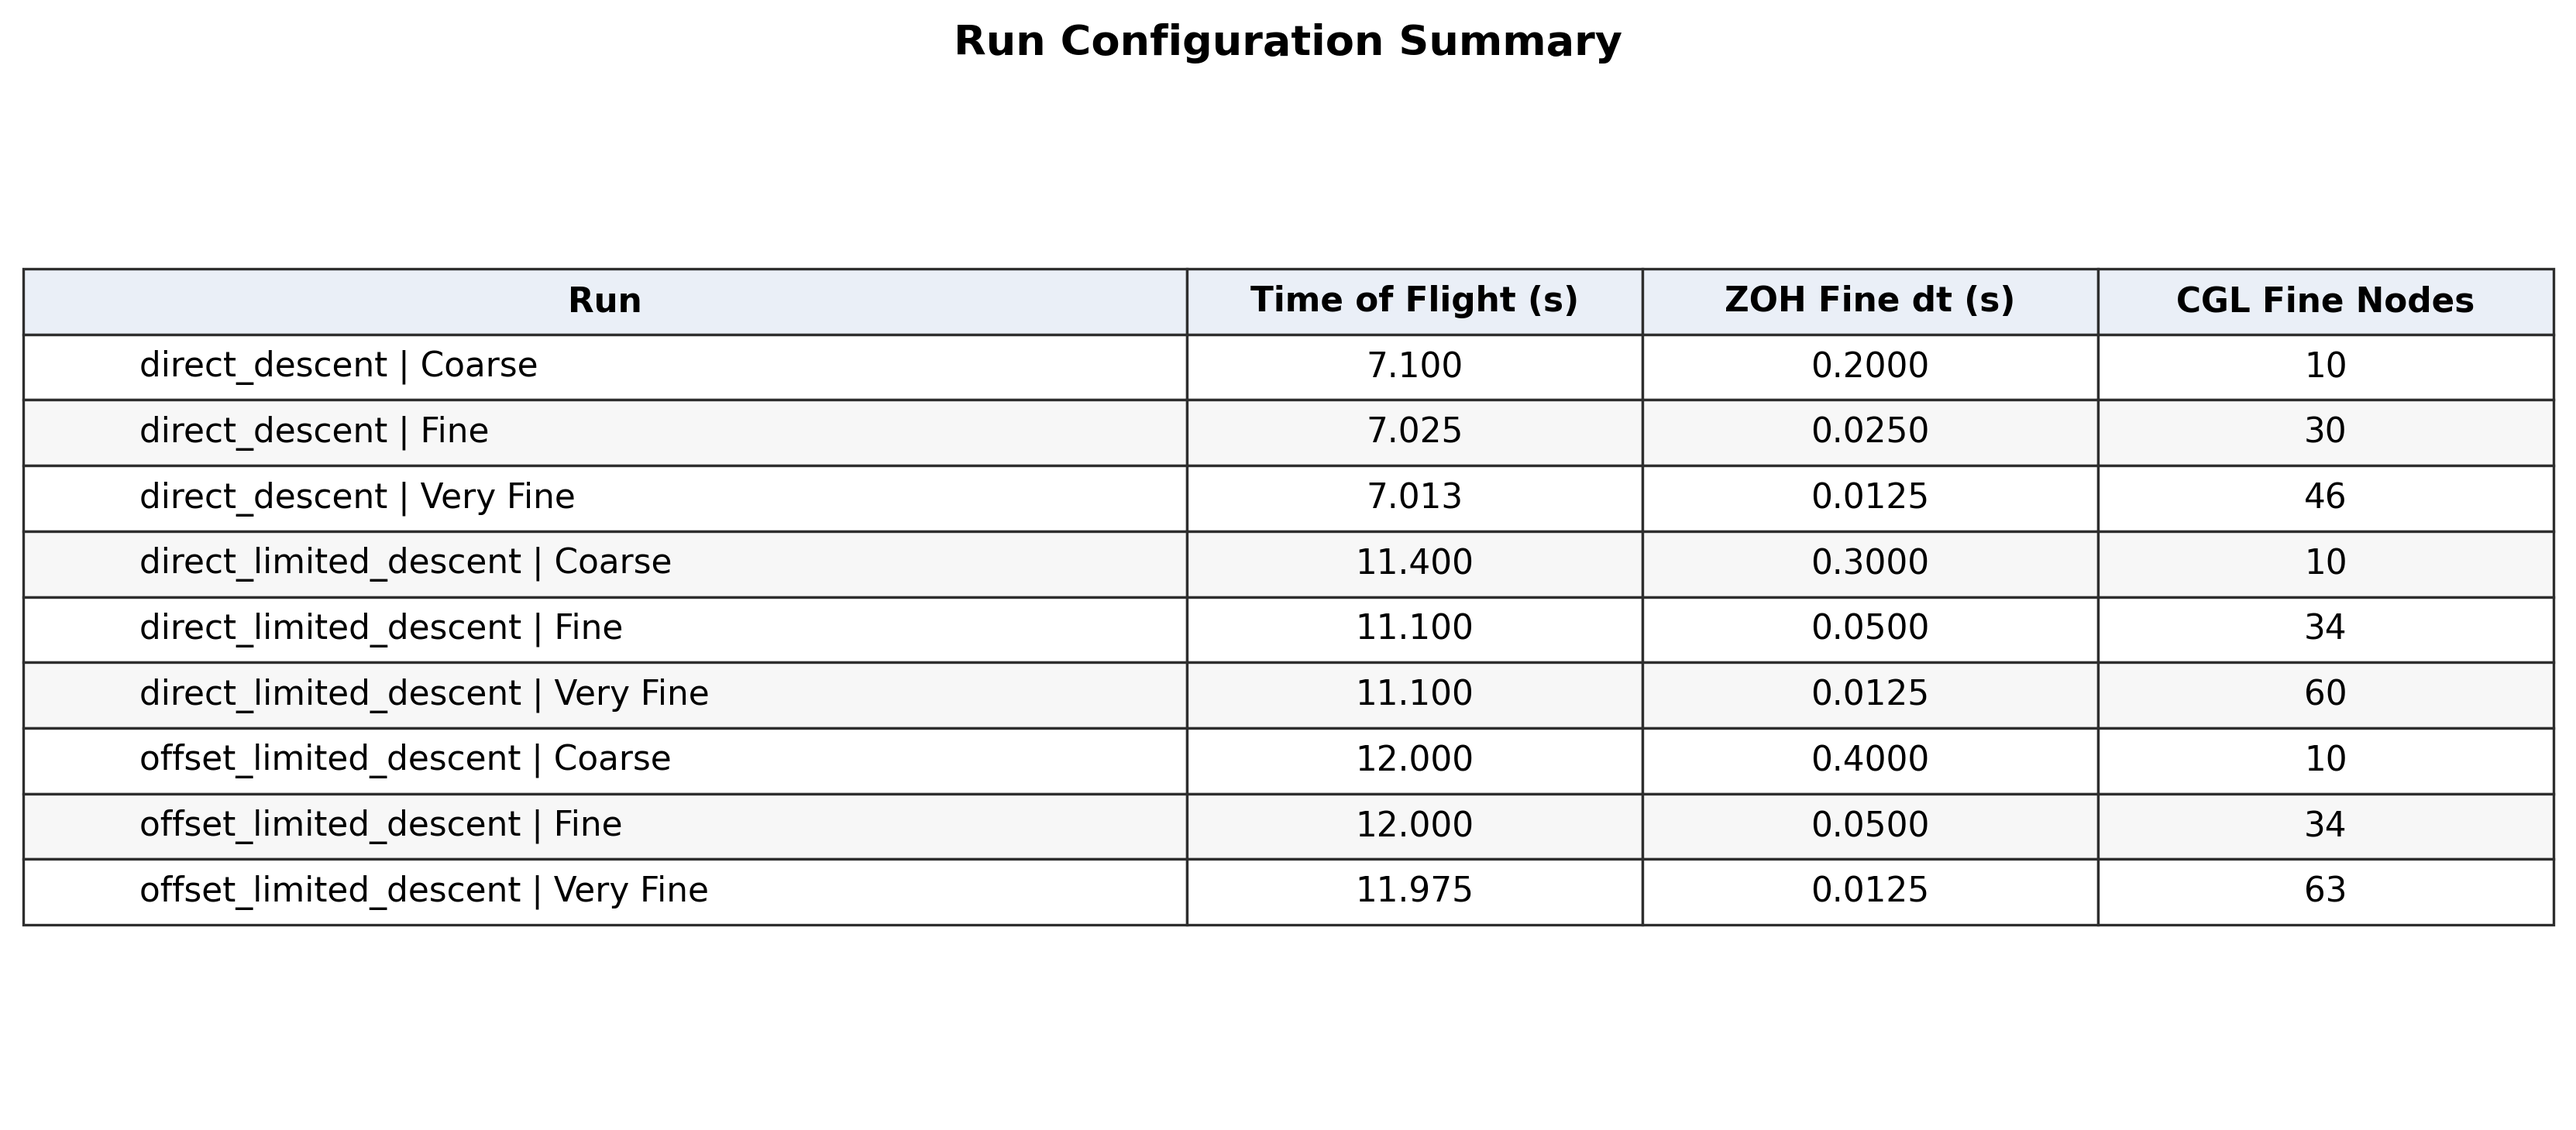
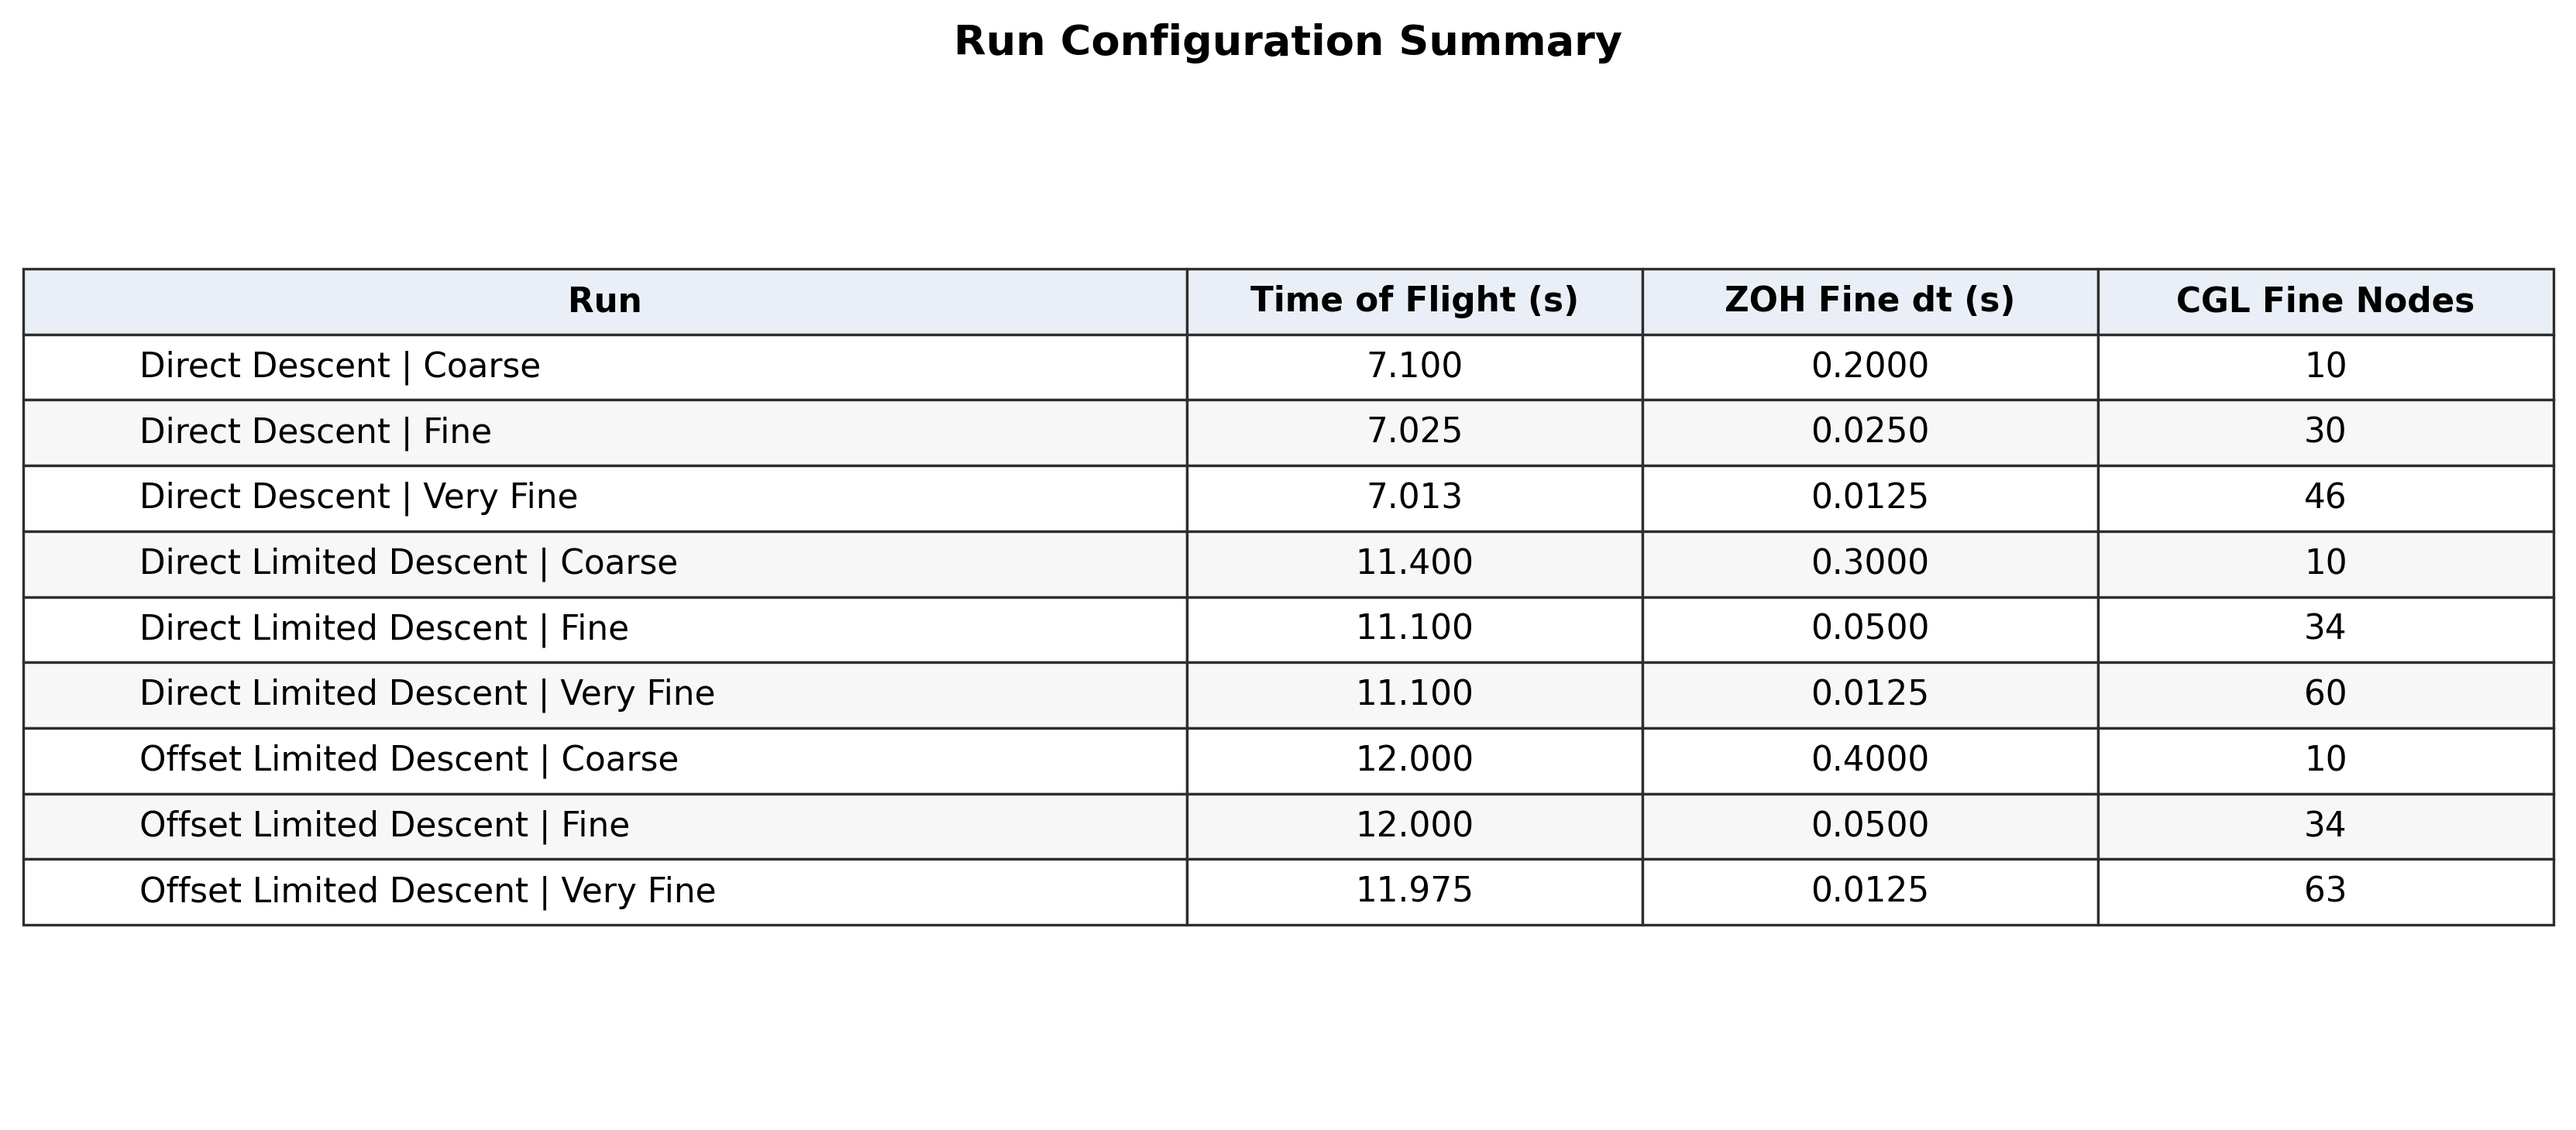
more human readable

diff --git a/Algorithms/LosslessConvexification/rust_lossless/src/prepare_group_comparison_graph_data.py b/Algorithms/LosslessConvexification/rust_lossless/src/prepare_group_comparison_graph_data.py
@@ -59,6 +59,10 @@ def method_from_candidate(candidate_csv: str) -> str:
     return match.group(1)
 
 
+def humanize_group_name(group_name: str) -> str:
+    return " ".join(part.capitalize() for part in group_name.replace("_", " ").split())
+
+
 def normalize_run_type(run_type: str) -> str:
     raw = (run_type or "").strip().lower()
     return RUN_TYPE_REMAP.get(raw, raw)
@@ -203,7 +207,8 @@ def main() -> None:
         if not comparison_csv.is_file():
             continue
 
-        group_name = comparison_csv.parent.name
+        raw_group_name = comparison_csv.parent.name
+        display_group_name = humanize_group_name(raw_group_name)
         try:
             rows = read_rows(comparison_csv)
             for row in rows:
@@ -222,21 +227,21 @@ def main() -> None:
                 simple_data = resolve_simple_group_data(
                     simple_stats,
                     method,
-                    group_name,
+                    raw_group_name,
                     raw_run_type,
                     run_type,
                 )
                 zoh_data = resolve_simple_group_data(
                     simple_stats,
                     "zoh",
-                    group_name,
+                    raw_group_name,
                     raw_run_type,
                     run_type,
                 )
                 cgl_data = resolve_simple_group_data(
                     simple_stats,
                     "cgl",
-                    group_name,
+                    raw_group_name,
                     raw_run_type,
                     run_type,
                 )
@@ -257,7 +262,7 @@ def main() -> None:
 
                 collected.append(
                     {
-                        "group_name": group_name,
+                        "group_name": display_group_name,
                         "run_type": run_type,
                         "method": method,
                         "rmse_xyz": (row.get("rmse_xyz") or "").strip(),

diff --git a/Algorithms/LosslessConvexification/rust_lossless/src/plot_avg_solve_time_grouped.py b/Algorithms/LosslessConvexification/rust_lossless/src/plot_avg_solve_time_grouped.py
@@ -231,8 +231,8 @@ def make_plot(
                 f"{height:.3f}",
                 ha="center",
                 va="bottom",
-                fontsize=7.5,
-                rotation=90,
+                fontsize=6.5,
+                rotation=0,
             )
 
     ax.legend(title="Method", loc="upper right")

diff --git a/Algorithms/LosslessConvexification/rust_lossless/src/plot_rmse_split_by_method.py b/Algorithms/LosslessConvexification/rust_lossless/src/plot_rmse_split_by_method.py
@@ -224,8 +224,8 @@ def plot_metric(
                 f"{height:.3f}",
                 ha="center",
                 va="bottom",
-                fontsize=7,
-                rotation=90,
+                fontsize=6.2,
+                rotation=0,
             )
 
     ax.legend(
